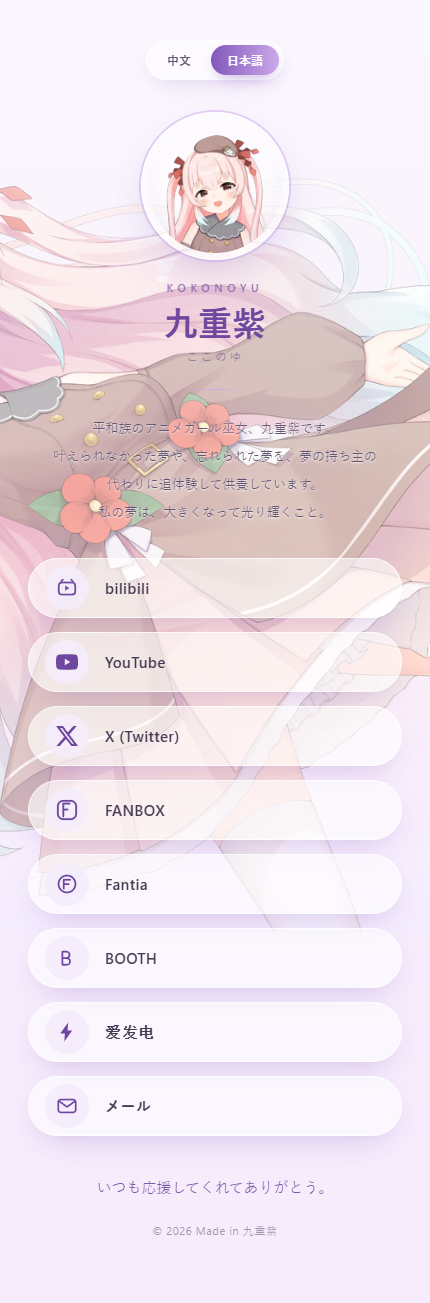
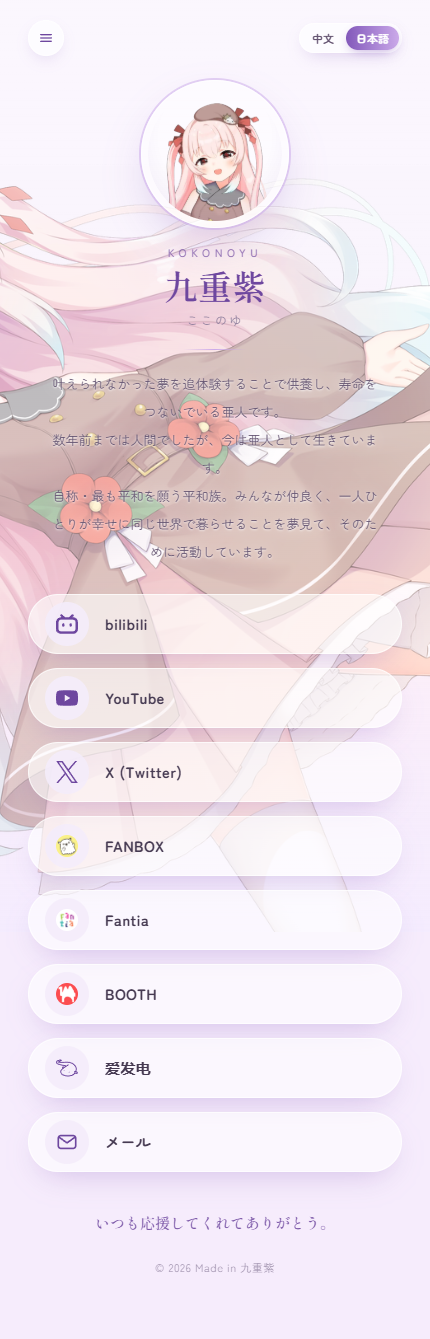
feat: 新简介、右上角语言切换、左上角菜单、官方图标、日式字体

diff --git a/src/components/icons.tsx b/src/components/icons.tsx
@@ -3,76 +3,64 @@ import type { IconName } from "@/src/data/links";
 
 const paths: Record<IconName, ReactNode> = {
   bilibili: (
-    <>
-      <g
-        fill="none"
-        stroke="currentColor"
-        strokeWidth="1.8"
-        strokeLinecap="round"
-        strokeLinejoin="round"
-      >
-        <path d="M7.5 2.8 5.6 4.7M16.5 2.8l1.9 1.9" />
-        <rect x="3" y="6" width="18" height="13.2" rx="3.4" />
-      </g>
-      <path d="m10 9.4 4.6 2.7-4.6 2.7Z" />
-    </>
+    <path d="M17.813 4.653h.854q2.266.08 3.773 1.574Q23.946 7.72 24 9.987v7.36q-.054 2.266-1.56 3.773c-1.506 1.507-2.262 1.524-3.773 1.56H5.333q-2.266-.054-3.773-1.56C.053 19.614.036 18.858 0 17.347v-7.36q.054-2.267 1.56-3.76t3.773-1.574h.774l-1.174-1.12a1.23 1.23 0 0 1-.373-.906q0-.534.373-.907l.027-.027q.4-.373.92-.373t.92.373L9.653 4.44q.107.106.187.213h4.267a.8.8 0 0 1 .16-.213l2.853-2.747q.4-.373.92-.373c.347 0 .662.151.929.4s.391.551.391.907q0 .532-.373.906zM5.333 7.24q-1.12.027-1.88.773q-.76.748-.786 1.894v7.52q.026 1.146.786 1.893t1.88.773h13.334q1.12-.026 1.88-.773t.786-1.893v-7.52q-.026-1.147-.786-1.894t-1.88-.773zM8 11.107q.56 0 .933.373q.375.374.4.96v1.173q-.025.586-.4.96q-.373.375-.933.374c-.56-.001-.684-.125-.933-.374q-.375-.373-.4-.96V12.44q0-.56.386-.947q.387-.386.947-.386m8 0q.56 0 .933.373q.375.374.4.96v1.173q-.025.586-.4.96q-.373.375-.933.374c-.56-.001-.684-.125-.933-.374q-.375-.373-.4-.96V12.44q.025-.586.4-.96q.373-.373.933-.373" />
   ),
   youtube: (
-    <path d="M23.498 6.186a3.016 3.016 0 0 0-2.122-2.136C19.505 3.545 12 3.545 12 3.545s-7.505 0-9.377.505A3.017 3.017 0 0 0 .502 6.186C0 8.07 0 12 0 12s0 3.93.502 5.814a3.016 3.016 0 0 0 2.122 2.136c1.871.505 9.376.505 9.376.505s7.505 0 9.377-.505a3.015 3.015 0 0 0 2.122-2.136C24 15.93 24 12 24 12s0-3.93-.502-5.814zM9.545 15.568V8.432L15.818 12l-6.273 3.568z" />
+    <path d="M23.498 6.186a3.02 3.02 0 0 0-2.122-2.136C19.505 3.545 12 3.545 12 3.545s-7.505 0-9.377.505A3.02 3.02 0 0 0 .502 6.186C0 8.07 0 12 0 12s0 3.93.502 5.814a3.02 3.02 0 0 0 2.122 2.136c1.871.505 9.376.505 9.376.505s7.505 0 9.377-.505a3.02 3.02 0 0 0 2.122-2.136C24 15.93 24 12 24 12s0-3.93-.502-5.814M9.545 15.568V8.432L15.818 12z" />
   ),
   x: (
-    <path d="M18.901 1.153h3.68l-8.04 9.19L24 22.846h-7.406l-5.8-7.584-6.638 7.584H.474l8.6-9.83L0 1.154h7.594l5.243 6.932ZM17.61 20.644h2.039L6.486 3.24H4.298Z" />
+    <path d="M14.234 10.162 22.977 0h-2.072l-7.591 8.824L7.251 0H.258l9.168 13.343L.258 24H2.33l8.016-9.318L16.749 24h6.993zm-2.837 3.299-.929-1.329L3.076 1.56h3.182l5.965 8.532.929 1.329 7.754 11.09h-3.182z" />
   ),
   fanbox: (
     <>
-      <rect
-        x="2"
-        y="2"
-        width="20"
-        height="20"
-        rx="6"
-        fill="none"
-        stroke="currentColor"
-        strokeWidth="2"
+      <path
+        d="M7.2 9.1c-.5-1.6.5-3.2 2.1-3.7.7-.2 1.5-.1 2.1.4.7-.5 1.6-.6 2.4-.3 1.4.5 2.3 1.9 2.1 3.4-.1.8-.4 1.6-.9 2.3.6.3 1.1.8 1.4 1.4.3.7.3 1.5-.1 2.2-.2.4-.5.7-.9.9.2.4.2.9 0 1.3-.3.5-.9.8-1.5.7-.3 0-.6-.1-.8-.3-.3.3-.7.5-1.1.4-.5 0-.9-.4-1.1-.9-.2-.5-.1-1.1.2-1.5-.8-.1-1.5-.6-1.8-1.4-.2-.7 0-1.4.5-1.9-.5-.7-.7-1.6-.4-2.4Z"
+        fill="currentColor"
+        opacity="0.92"
       />
       <path
-        d="M8 5v14M8 5h6.8M8 11.5h4.6"
+        d="M8.3 8.6c0-.7.6-1.3 1.3-1.3.3 0 .6.1.8.4M14 8.5c.2-.3.5-.4.8-.4.7 0 1.3.6 1.3 1.3"
         fill="none"
         stroke="currentColor"
-        strokeWidth="2"
+        strokeWidth="1.1"
+        strokeLinecap="round"
+      />
+      <path
+        d="M10.8 12.1c.8.7 1.7.7 2.5 0M11 13.2c.6.5 1.4.5 2 0M12 14.6c.5.6 1.3.6 1.8-.1"
+        fill="none"
+        stroke="currentColor"
+        strokeWidth="1"
+        strokeLinecap="round"
+      />
+      <path
+        d="M7.6 12.7c-.6-.3-1.2.1-1.3.8-.1.6.3 1.2.9 1.3"
+        fill="none"
+        stroke="currentColor"
+        strokeWidth="1.1"
         strokeLinecap="round"
       />
     </>
   ),
   fantia: (
-    <>
-      <circle
-        cx="12"
-        cy="12"
-        r="9.2"
-        fill="none"
-        stroke="currentColor"
-        strokeWidth="1.9"
-      />
-      <path
-        d="M8.4 7.4h7.2M8.4 7.4v9.6M8.4 12.2h5.4"
-        fill="none"
-        stroke="currentColor"
-        strokeWidth="1.9"
-        strokeLinecap="round"
-      />
-    </>
+    <text
+      x="12"
+      y="15.2"
+      textAnchor="middle"
+      fontSize="9"
+      fontWeight="800"
+      fill="currentColor"
+      fontFamily="'Zen Maru Gothic','M PLUS Rounded 1c','Hiragino Sans',sans-serif"
+      letterSpacing="-0.3"
+    >
+      fantia
+    </text>
   ),
   booth: (
-    <path
-      d="M7 5h4.2a3.6 3.6 0 0 1 0 7.2H7V5Zm0 7.2h4.8a3.6 3.6 0 0 1 0 7.2H7v-7.2Z"
-      fill="none"
-      stroke="currentColor"
-      strokeWidth="1.9"
-      strokeLinejoin="round"
-    />
+    <path d="M3.8 7h4.4v2.8l2.6-5q1.1-1.2 2.2 0l2.2 5 2.1-4.6q1.2-1.2 2.3 0l1.2 4.8v4.2h1.1v1.8h-1.9v3h-3v-2.6a2.3 2.3 0 0 0-4.6 0v2.6h-2.6v-3.4h-4.4v-2.8H3.8Z" />
   ),
-  bolt: <path d="M13.2 1.8 4.6 13.6h5.1L9.1 22.2l8.6-11.8h-5.1l.6-8.6Z" />,
+  bolt: (
+    <path d="M9 14.234a.567.567 0 1 0 0 1.134.567.567 0 0 0 0-1.134m5.351 1.705a.567.567 0 1 0 0 1.135.567.567 0 0 0 0-1.135m8.401 1.436c-.189.095-.461.1-.713.013-.169-.06-.352-.116-.534-.172-.339-.104-.904-.276-1.011-.407a.533.533 0 1 0-.853.643c.059.08.139.146.22.209-.816 1.131-4.398 3.382-9.464 2.273-2.283-.5-3.819-1.413-4.444-2.639-.451-.885-.348-1.797-.133-2.293.62-1.29 5.097-4.261 7.955-5.943a.537.537 0 0 0 .188-.733c-.149-.254-.49-.356-.73-.189-.231.135-1.015.601-2.015 1.236-.338-.227-.923-.508-1.86-.6-1.486-.148-4.92-.805-6.029-1.275C2.535 7.162.731 6.27 1.131 5.267c.092-.234.527-.613 1.47-.974a8.5 8.5 0 0 1 1.995-.492l-.212.103c-.642.312-1.343.662-1.813 1.075-.034-.022-.07-.044-.094-.069a.527.527 0 0 0-.754-.017.533.533 0 0 0-.017.756c.19.2.471.35.829.465l.039.014c1.245.383 3.458.336 6.578.211 1.345-.052 2.615-.102 3.674-.082 3.512.07 6.152 1.469 8.07 4.279 1.178 1.725.753 3.426.079 4.903a1.4 1.4 0 0 1-.231-.222.54.54 0 0 0-.75-.085.535.535 0 0 0-.086.751c.109.137.665.778 1.355.724l.037-.002c.021-.003.042.001.064-.003.472-.086.768-.063 1.045.111.367.232.547.37.511.485-.021.073-.076.125-.168.177M8.19 11.418l-.315.231a1.6 1.6 0 0 1-.243-.32c.123-.038.33.007.558.089m14.733 4.356a1.9 1.9 0 0 0-.81-.27c.632-1.544 1.034-3.565-.336-5.572-2.096-3.072-5.101-4.668-8.93-4.744-1.091-.022-2.377.029-3.737.083-1.58.063-3.683.145-5.112.027.285-.155.588-.304.851-.431 1.006-.49 1.797-.872 1.535-1.548-.137-.396-.547-.603-1.219-.618C3.748 2.669.688 3.489.138 4.872c-.31.779-.361 2.282 2.775 3.61 1.29.548 4.934 1.216 6.341 1.355.397.039.701.119.931.205a75 75 0 0 0-.986.664c-.577-.329-1.521-.718-2.226-.237a.94.94 0 0 0-.435.768c-.01.385.224.763.486 1.066-1.038.83-1.877 1.634-2.175 2.253-.332.762-.467 2.008.153 3.224.786 1.544 2.524 2.62 5.166 3.199 3.454.755 6.437.075 8.411-.966 1.099-.579 1.878-1.27 2.257-1.887l.356.113c.169.051.338.103.496.159.522.181 1.1.157 1.545-.068l.025-.013c.336-.177.577-.46.683-.803.285-.922-.528-1.432-1.018-1.74" />
+  ),
   mail: (
     <>
       <rect
@@ -104,6 +92,17 @@ export function Icon({
   name: IconName;
   className?: string;
 }) {
+  if (name === "fanbox" || name === "fantia" || name === "booth") {
+    return (
+      <img
+        src={`/icons/${name}.png`}
+        alt=""
+        aria-hidden="true"
+        className={`${className} rounded-full object-cover`}
+      />
+    );
+  }
+
   return (
     <svg
       viewBox="0 0 24 24"

diff --git a/src/components/Home.tsx b/src/components/Home.tsx
@@ -3,6 +3,7 @@
 import { useEffect, useState } from "react";
 import Image from "next/image";
 import { LinkButton } from "@/src/components/LinkButton";
+import { MenuButton } from "@/src/components/MenuButton";
 import { footer, links, profile, type Lang } from "@/src/data/links";
 
 const DEFAULT_LANG: Lang = "zh";
@@ -22,14 +23,14 @@ export function Home() {
     window.localStorage.setItem("kokonoyu-lang", next);
   };
 
-  const toggleBtn = (value: Lang, label: string) => (
+  const langBtn = (value: Lang, label: string) => (
     <button
       type="button"
       aria-pressed={lang === value}
       onClick={() => switchLang(value)}
-      className={`rounded-full px-4 py-1.5 text-[12px] font-semibold transition-all duration-300 focus-visible:outline-2 focus-visible:outline-offset-2 focus-visible:outline-deep ${
+      className={`rounded-full px-2.5 py-1 text-[11px] font-semibold transition-all duration-300 focus-visible:outline-2 focus-visible:outline-offset-1 focus-visible:outline-deep ${
         lang === value
-          ? "bg-linear-to-r from-primary to-lavender text-white shadow-[0_6px_16px_-6px_rgba(131,88,186,0.55)]"
+          ? "bg-linear-to-r from-primary to-lavender text-white shadow-[0_4px_12px_-4px_rgba(131,88,186,0.55)]"
           : "text-sub hover:text-deep"
       }`}
     >
@@ -38,14 +39,17 @@ export function Home() {
   );
 
   return (
-    <main className="relative z-10 mx-auto flex min-h-dvh w-full max-w-[430px] flex-col px-7 pb-16 pt-10">
-      <header className="animate-fade-up text-center">
-        <div className="mx-auto flex w-fit items-center gap-1 rounded-full border border-white/70 bg-white/55 p-1 shadow-[0_8px_24px_-10px_rgba(131,88,186,0.35)] backdrop-blur-md">
-          {toggleBtn("zh", "中文")}
-          {toggleBtn("ja", "日本語")}
+    <main className="relative z-10 mx-auto flex min-h-dvh w-full max-w-[430px] flex-col px-7 pb-16 pt-5">
+      <div className="relative z-30 flex items-center justify-between">
+        <MenuButton lang={lang} />
+        <div className="flex items-center gap-0.5 rounded-full border border-white/70 bg-white/60 p-0.5 shadow-[0_6px_18px_-8px_rgba(131,88,186,0.4)] backdrop-blur-md">
+          {langBtn("zh", "中文")}
+          {langBtn("ja", "日本語")}
         </div>
+      </div>
 
-        <div className="mx-auto mt-8 h-[148px] w-[148px] rounded-full border border-white/70 bg-white/55 p-1.5 shadow-[0_20px_50px_-18px_rgba(131,88,186,0.45)] ring-2 ring-lavender/50 backdrop-blur-md">
+      <header className="animate-fade-up mt-6 text-center">
+        <div className="mx-auto h-[148px] w-[148px] rounded-full border border-white/70 bg-white/55 p-1.5 shadow-[0_20px_50px_-18px_rgba(131,88,186,0.45)] ring-2 ring-lavender/50 backdrop-blur-md">
           <div className="relative h-full w-full overflow-hidden rounded-full">
             <Image
               src="/avatar.png"
@@ -59,7 +63,7 @@ export function Home() {
           </div>
         </div>
 
-        <p className="mt-5 text-[11px] font-medium uppercase tracking-[0.42em] text-deep/70">
+        <p className="mt-4 text-[11px] font-medium uppercase tracking-[0.42em] text-deep/70">
           {profile.romaji}
         </p>
         <h1 className="mt-1 font-display text-[34px] font-semibold leading-tight text-deep">
@@ -69,14 +73,14 @@ export function Home() {
           {profile.kana}
         </p>
 
-        <div className="mx-auto mt-6 h-px w-16 bg-linear-to-r from-transparent via-lavender to-transparent" />
+        <div className="mx-auto mt-5 h-px w-16 bg-linear-to-r from-transparent via-lavender to-transparent" />
 
-        <p className="mx-auto mt-6 max-w-[350px] whitespace-pre-line px-2 text-[13px] leading-7 text-sub [text-shadow:0_1px_2px_rgba(255,255,255,0.85),0_0_14px_rgba(255,255,255,0.7)]">
+        <p className="mx-auto mt-5 max-w-[350px] whitespace-pre-line px-2 text-[13px] leading-7 text-sub [text-shadow:0_1px_2px_rgba(255,255,255,0.85),0_0_14px_rgba(255,255,255,0.7)]">
           {profile.bio[lang]}
         </p>
       </header>
 
-      <nav aria-label="リンク" className="mt-8">
+      <nav aria-label="リンク" className="mt-7">
         <ul className="space-y-3.5">
           {links.map((item, i) => (
             <LinkButton key={item.id} item={item} lang={lang} index={i} />

diff --git a/src/components/MenuButton.tsx b/src/components/MenuButton.tsx
@@ -1,0 +1,68 @@
+"use client";
+
+import { useState } from "react";
+import { menu, type Lang } from "@/src/data/links";
+
+export function MenuButton({ lang }: { lang: Lang }) {
+  const [open, setOpen] = useState(false);
+
+  return (
+    <div className="relative">
+      <button
+        type="button"
+        aria-label="menu"
+        aria-expanded={open}
+        onClick={() => setOpen((v) => !v)}
+        className="flex h-9 w-9 items-center justify-center rounded-full border border-white/70 bg-white/60 text-deep shadow-[0_6px_18px_-8px_rgba(131,88,186,0.4)] backdrop-blur-md transition-all duration-300 hover:-translate-y-[1px] hover:bg-linear-to-br hover:from-primary hover:to-lavender hover:text-white focus-visible:outline-2 focus-visible:outline-offset-2 focus-visible:outline-deep"
+      >
+        <svg
+          viewBox="0 0 24 24"
+          className="h-4 w-4"
+          fill="none"
+          stroke="currentColor"
+          strokeWidth="2"
+          strokeLinecap="round"
+          aria-hidden="true"
+        >
+          <path d="M4 7h16M4 12h16M4 17h16" />
+        </svg>
+      </button>
+
+      {open && (
+        <>
+          <button
+            type="button"
+            aria-label="close menu"
+            className="fixed inset-0 z-10 cursor-default"
+            onClick={() => setOpen(false)}
+          />
+          <div className="absolute left-0 top-11 z-20 w-52 overflow-hidden rounded-2xl border border-white/70 bg-white/80 p-1.5 shadow-[0_18px_40px_-16px_rgba(131,88,186,0.45)] backdrop-blur-xl">
+            {menu.items.map((item) => (
+              <a
+                key={item.id}
+                href={item.href}
+                target="_blank"
+                rel="noreferrer"
+                className="flex items-center justify-between rounded-xl px-3.5 py-2.5 text-[13px] font-semibold text-ink transition-colors duration-200 hover:bg-linear-to-r hover:from-primary hover:to-lavender hover:text-white"
+              >
+                {item.label[lang]}
+                <svg
+                  viewBox="0 0 24 24"
+                  className="h-3.5 w-3.5 opacity-60"
+                  fill="none"
+                  stroke="currentColor"
+                  strokeWidth="2"
+                  strokeLinecap="round"
+                  strokeLinejoin="round"
+                  aria-hidden="true"
+                >
+                  <path d="M7 17 17 7M9 7h8v8" />
+                </svg>
+              </a>
+            ))}
+          </div>
+        </>
+      )}
+    </div>
+  );
+}

diff --git a/src/data/links.ts b/src/data/links.ts
@@ -22,9 +22,34 @@ export const profile = {
   romaji: "Kokonoyu",
   kana: "ここのゆ",
   bio: {
-    ja: "平和族のアニメガール巫女、九重紫です。\n叶えられなかった夢や、忘れられた夢を、夢の持ち主の代わりに追体験して供養しています。\n私の夢は、大きくなって光り輝くこと。",
-    zh: "我是自称和平族的动漫小巫女，九重紫。\n我会代替梦的主人，去体验那些未能实现、或已被遗忘的梦，以此供养它们。\n我的梦想，是成为照亮大家的光。",
+    ja: "叶えられなかった夢を追体験することで供養し、寿命をつないでいる亜人です。\n数年前までは人間でしたが、今は亜人として生きています。\n自称・最も平和を願う平和族。みんなが仲良く、一人ひとりが幸せに同じ世界で暮らせることを夢見て、そのために活動しています。",
+    zh: "通过体验实现某人生前无法达成的梦想来超度他们，以延续自己寿命的亚人。\n在几年前还是人类，但现在以亚人的姿态存在。\n自称最清楚的平和族，梦想大家能和平相处，每一个人都幸福地在同一个世界生活。为了这个目标而努力进行活动。",
   },
+};
+
+export const menu = {
+  items: [
+    {
+      id: "commission-zh",
+      href: "https://kokonoeyukari.my.canva.site/hp-cn/page-4",
+      label: { ja: "依頼", zh: "委托" },
+    },
+    {
+      id: "commission",
+      href: "https://kokonoeyukari.my.canva.site/hp-cn/commission",
+      label: { ja: "Commission", zh: "Commission" },
+    },
+    {
+      id: "contact",
+      href: "https://kokonoeyukari.my.canva.site/hp-cn/contact",
+      label: { ja: "Contact", zh: "Contact" },
+    },
+    {
+      id: "design",
+      href: "https://kokonoeyukari.my.canva.site/hp-cn/design",
+      label: { ja: "Design", zh: "Design" },
+    },
+  ],
 };
 
 export const links: LinkItem[] = [

diff --git a/src/app/layout.tsx b/src/app/layout.tsx
@@ -1,18 +1,18 @@
 import type { Metadata, Viewport } from "next";
-import { Noto_Sans_JP, Noto_Serif_JP } from "next/font/google";
+import { Shippori_Mincho, Zen_Maru_Gothic } from "next/font/google";
 import "./globals.css";
 
-const serif = Noto_Serif_JP({
+const display = Shippori_Mincho({
   subsets: ["latin"],
-  weight: ["400", "500", "600", "700"],
-  variable: "--font-serif-jp",
+  weight: ["500", "600", "700"],
+  variable: "--font-display-jp",
   display: "swap",
 });
 
-const sans = Noto_Sans_JP({
+const body = Zen_Maru_Gothic({
   subsets: ["latin"],
-  weight: ["400", "500", "600"],
-  variable: "--font-sans-jp",
+  weight: ["400", "500", "700"],
+  variable: "--font-body-jp",
   display: "swap",
 });
 
@@ -51,10 +51,8 @@ export default function RootLayout({
   children: React.ReactNode;
 }>) {
   return (
-    <html lang="ja">
-      <body className={`${serif.variable} ${sans.variable}`}>
-        {children}
-      </body>
+    <html lang="ja" className={`${display.variable} ${body.variable}`}>
+      <body>{children}</body>
     </html>
   );
 }

diff --git a/src/app/globals.css b/src/app/globals.css
@@ -12,10 +12,10 @@
   --color-sub: #655572;
   --color-faint: #8f7f9d;
 
-  --font-display: var(--font-serif-jp), "Yu Mincho", "Hiragino Mincho ProN",
-    serif;
-  --font-body: var(--font-sans-jp), "Hiragino Sans", "Yu Gothic UI",
-    sans-serif;
+  --font-display: var(--font-display-jp), "Noto Serif SC",
+    "Source Han Serif SC", "Songti SC", serif;
+  --font-body: var(--font-body-jp), "M PLUS Rounded 1c", "Hiragino Sans",
+    "PingFang SC", "Microsoft YaHei", sans-serif;
 
   --animate-fade-up: fade-up 0.85s cubic-bezier(0.22, 1, 0.36, 1) both;
 }

diff --git a/README.md b/README.md
@@ -45,11 +45,16 @@ npm run start
 
 默认语言在 [`src/components/Home.tsx`](src/components/Home.tsx) 顶部的 `DEFAULT_LANG` 修改（`"zh"` 或 `"ja"`）。用户的选择会保存在浏览器 localStorage 中。
 
+### 左上角菜单
+
+菜单（委托 / Commission / Contact / Design）的链接在 [`src/data/links.ts`](src/data/links.ts) 的 `menu` 中修改。
+
 ### 背景图与图标
 
 - 背景图：替换 `public/bg-character.png`。
 - 浏览器图标：替换 `src/app/favicon.ico`。
 - 头像：替换 `public/avatar.png`（建议正方形、人物居中）。
+- 按钮图标：bilibili / YouTube / X / 爱发电 使用官方 SVG；FANBOX / Fantia / BOOTH 使用官网原版图标（`public/icons/`）。
 
 ## 素材来源
 
